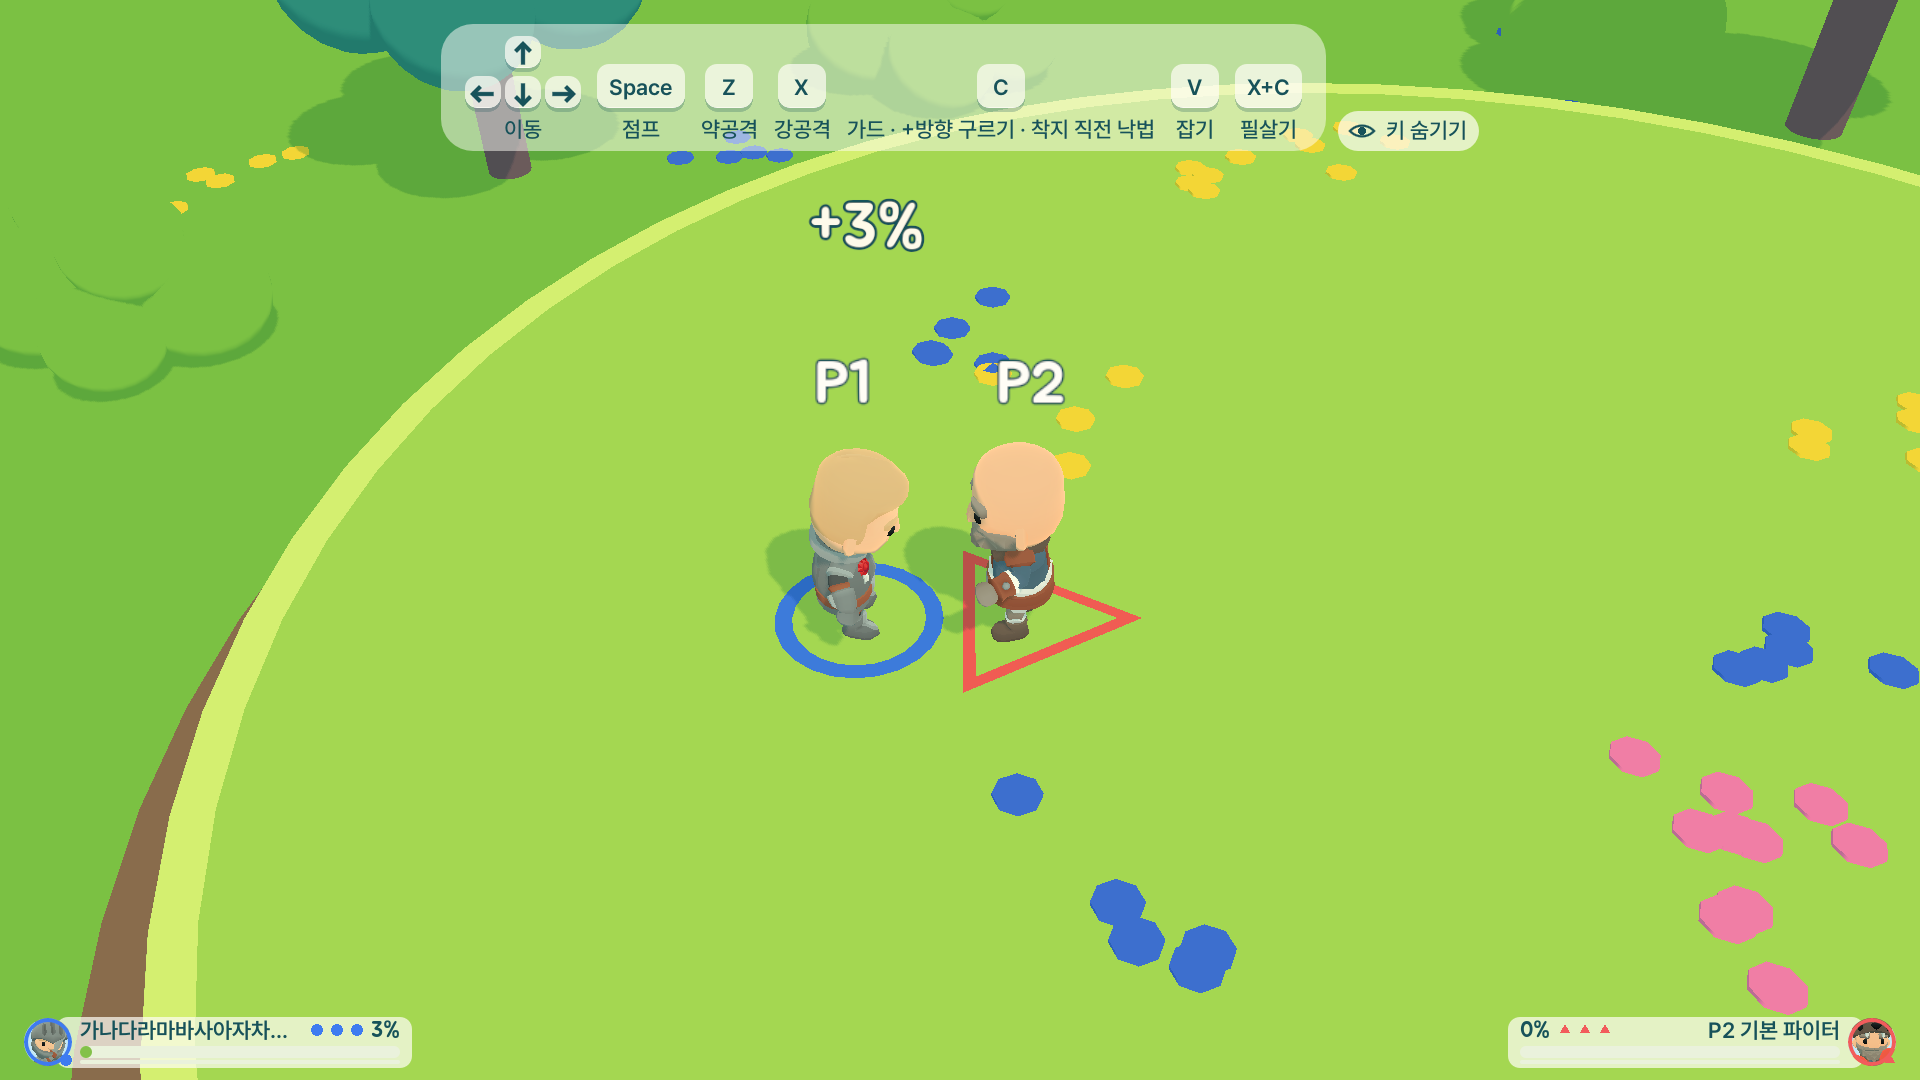
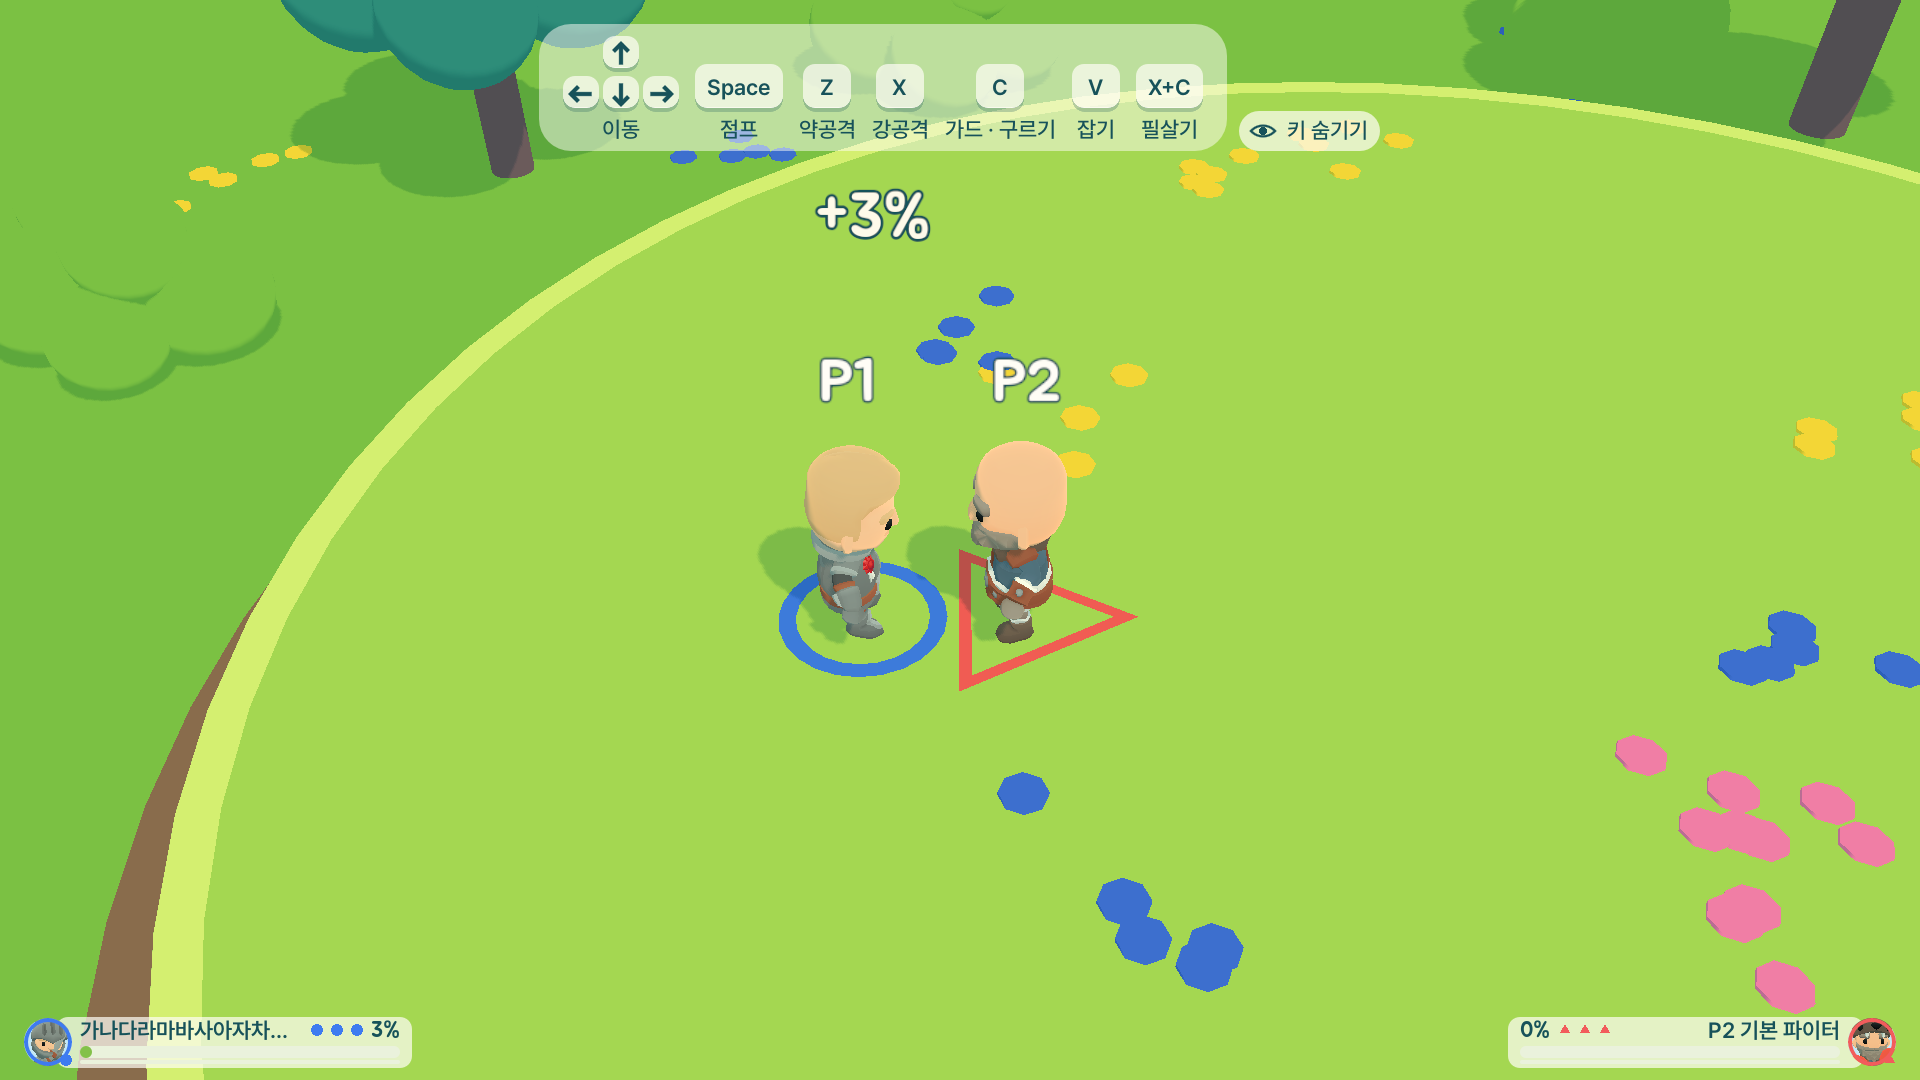
fix: shorter guard key caption; restore the account nickname on sign-in
The C key caption '가드 · +방향 구르기 · 착지 직전 낙법' stretched the gap
between X, C and V; it is now '가드 · 구르기'. A sign-in on a device without
a nickname (another account, or onboarding done earlier) takes the
account's display name, and the title greeting follows ProfileStore.changed.

diff --git a/docs/design.md b/docs/design.md
@@ -389,7 +389,7 @@ v1 (Phase 1~5): 정보는 상단·조작은 하단, `DamageCounter`를 상단에
 
 `KeyHintBar` 규칙 (DS-CMP-16, 2026-09-30):
 - 위치: safe area 안쪽 `s5` 여백, 칩은 바 오른쪽 끝. 대전에서는 HUD 스트립 반대편 = 데스크톱에서 **위쪽** (DS-LAY-02 v2, 2026-10-01). 튜토리얼 등 스트립이 없는 곳은 하단
-- 키캡: 방향키는 역T자 묶음 + 캡션 "이동", 그다음 Space "점프" · Z "약공격" · X "강공격" · C "가드" · V "잡기" · X+C "필살기". 필살기는 동시 입력 키캡(여러 액션, 모두 눌렸을 때만 켜짐, 2026-09-30 Phase 5 T7)
+- 키캡: 방향키는 역T자 묶음 + 캡션 "이동", 그다음 Space "점프" · Z "약공격" · X "강공격" · C "가드 · 구르기"(2026-10-02: "가드 · +방향 구르기 · 착지 직전 낙법"이 길어 X–C–V 사이만 벌어져서 줄임. 방향+가드 = 구르기) · V "잡기" · X+C "필살기". 필살기는 동시 입력 키캡(여러 액션, 모두 눌렸을 때만 켜짐, 2026-09-30 Phase 5 T7)
 - 필살기 준비: 그 플레이어의 게이지가 가득 차면(view `gauge` ≥ 100, 필살기 있는 캐릭터만) 필살기 키캡 둘레에 `fire` 링(굵기 `s1`, 캡에서 `s1` 띄움). 누름 색과 함께 보일 수 있다
 - 로컬 2인(PRD-LOCAL-01): 플레이어마다 바 하나 — P1 왼쪽 아래, P2 오른쪽 아래(상단 대미지 카운터와 같은 순서), 바 앞에 플레이어 색 "P1"/"P2" 태그(`body` Jua + `ui_surface` 외곽선), 키캡 누름 색도 각자 플레이어 색. P2 키캡은 W/A S D 역T자 · Q · F · G · H · J · G+H. 칩은 마지막(P2) 바에 하나만, 숨기기/보이기는 두 바 함께. 이동 묶음 키캡은 글자여도 화살표 크기(`s6`+`s1`)라 두 바 높이가 같다
 - 좁을 때(compact): 두 바가 한 줄에 안 들어가면(DS-LAY-04 폰 배율 1.6 = 논리 폭 약 1458) 묶음 간격 `s4`→`s2`, 바 좌우 여백 `s5`→`s3`. 글자 크기는 줄이지 않는다. 증거 `phase-5/evidence/key-hint-{lit,ready,special,hidden}-1080.png`, `key-hint-2p{,-hidden}-{1080,phone}.png`

diff --git a/dev/active/onboarding/onboarding-tasks.md b/dev/active/onboarding/onboarding-tasks.md
@@ -7,6 +7,6 @@
 - [x] 6 Captures desktop + phone (spacing fixed: width 496, copy line breaks, hint row height, item gap s3)
 - [x] Review fixes: logout forgets nickname, HUD name only solo, Main.nickname injected by App,
       save failure warns, invisible/bidi chars refused, other spaces collapse
-- [ ] Open: nickname not refetched for a different account on a device whose onboarding is done
-      (title greeting empty until they set one); online opponent names; nickname edit in settings
-- [ ] Commit (awaiting user)
+- [x] Returning account on a device without a nickname: restored from profiles.display_name on sign-in
+- [ ] Open: online opponent names; nickname edit in settings
+- [x] Commit
